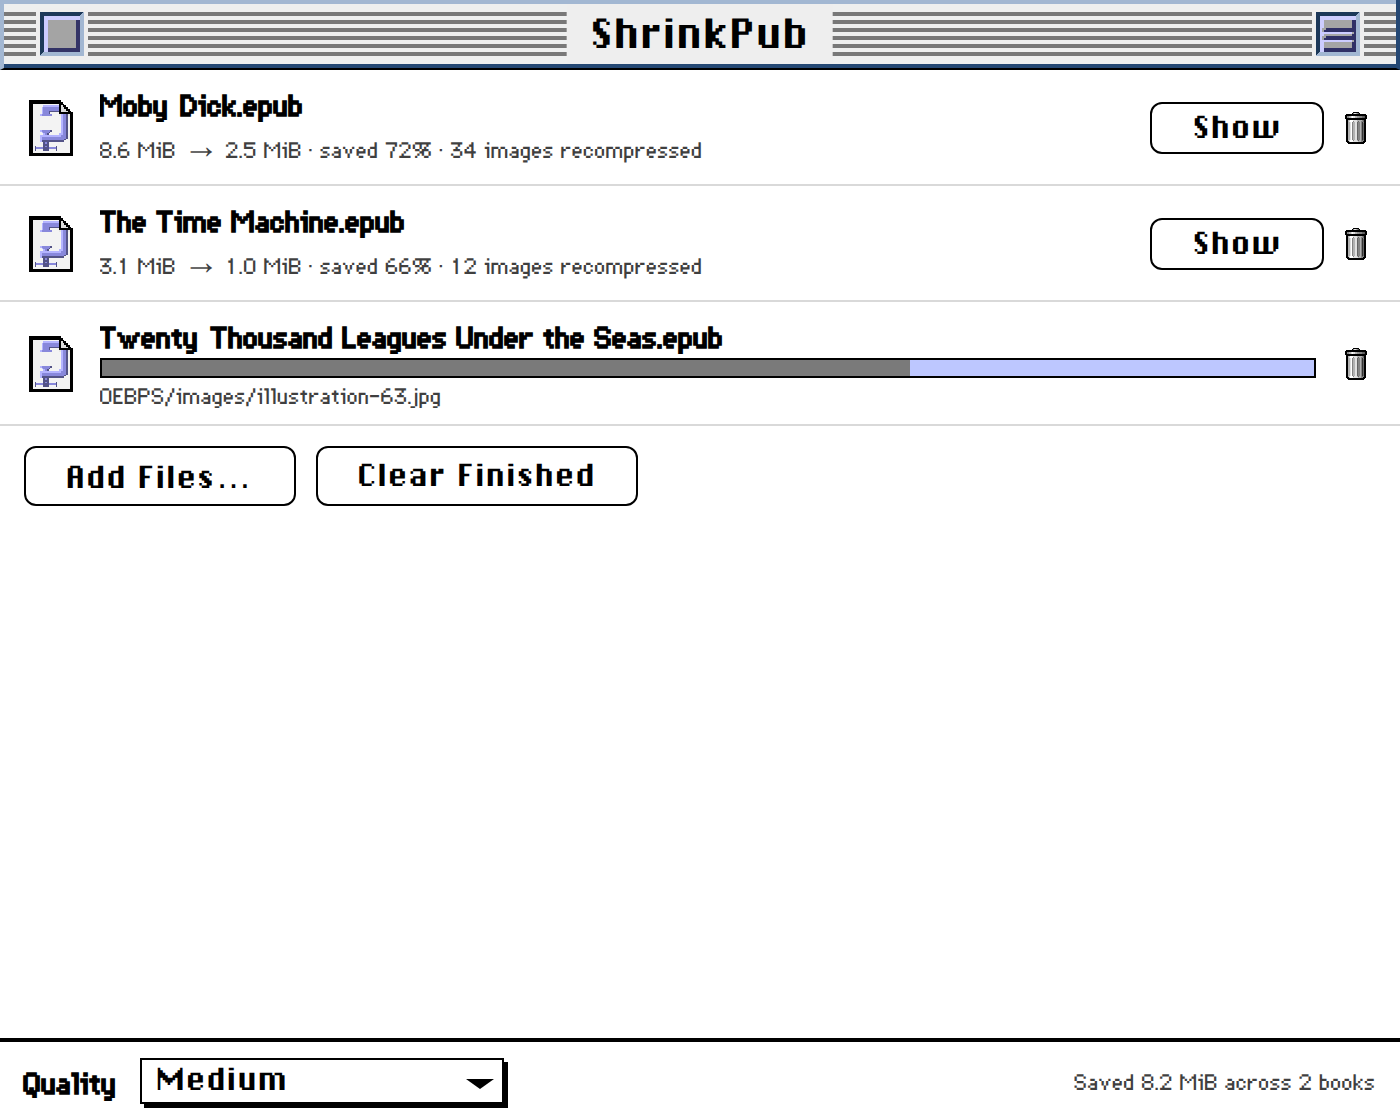
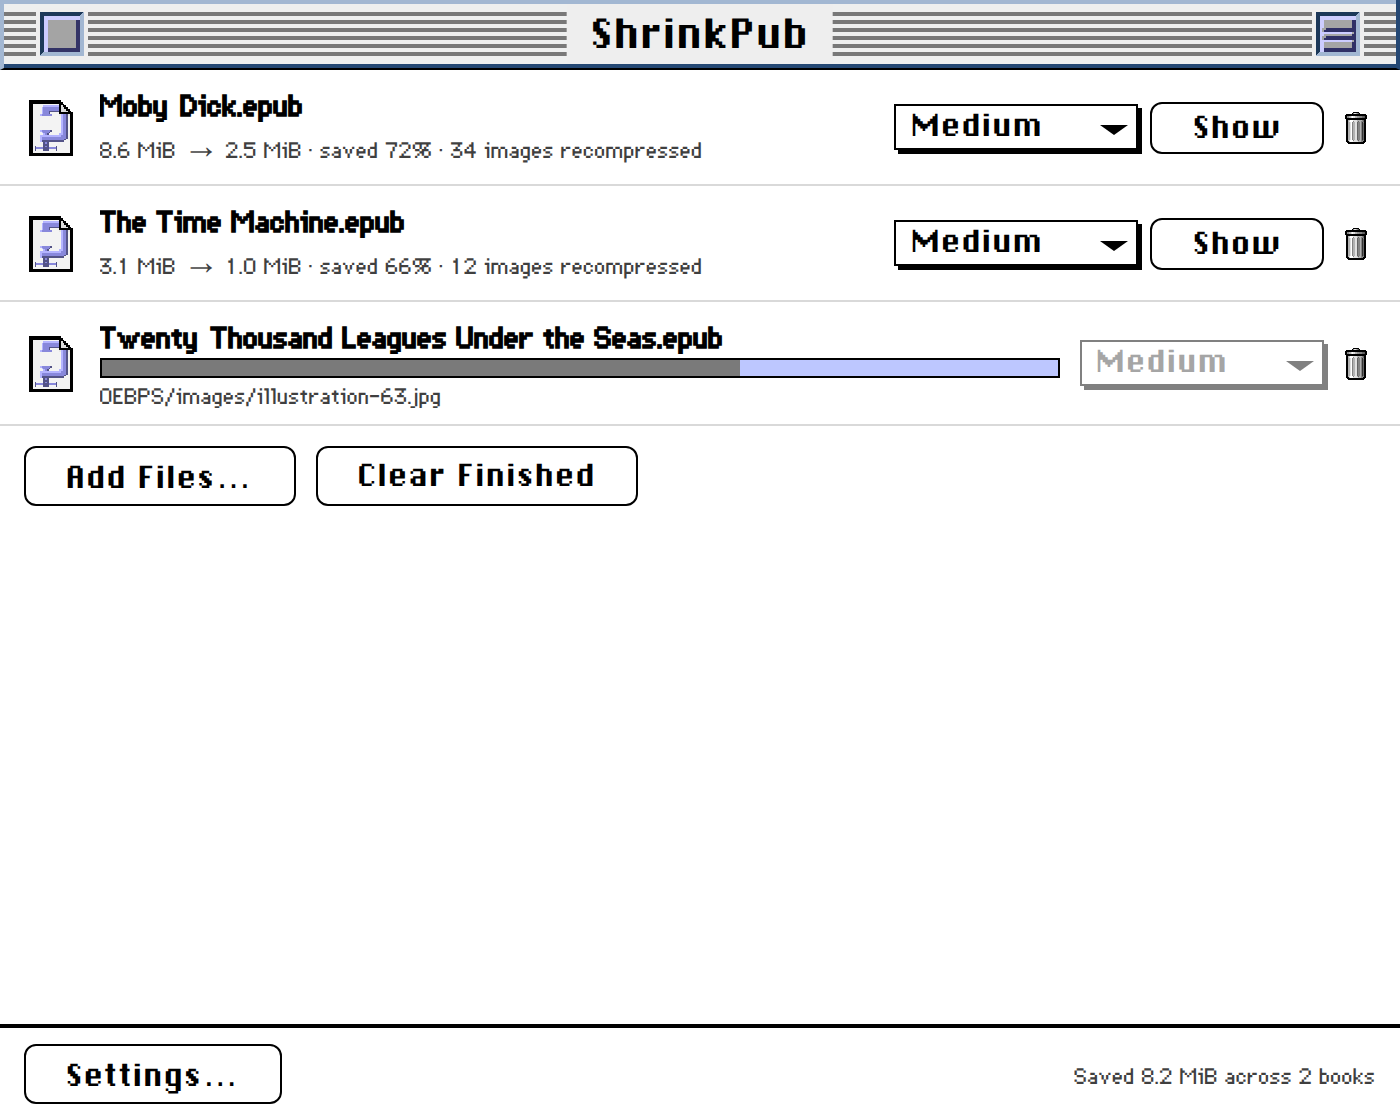
Add per-book quality selectors and a Settings panel for the default
Each file row now carries its own quality dropdown, seeded from the
default tier and disabled while that book is shrinking; changing it on a
finished row shrinks the book again at the new quality (the previous
output stays — nothing is ever deleted). The footer's global dropdown is
replaced by a Settings… button opening a system7-ui ModalDialog where the
default quality is set (persisted as shrinkpub.quality, unchanged key).

Claude-Session: https://claude.ai/code/session_01SaXkcH5paNMuNbDRHGC7LL

diff --git a/src/routes/+page.svelte b/src/routes/+page.svelte
@@ -7,6 +7,7 @@
     ArchiveFileIcon,
     Button,
     Dropdown,
+    ModalDialog,
     Notification,
     ProgressBar,
     TitleBar,
@@ -35,7 +36,8 @@
   const windowManager = new WindowManager();
 
   let jobs = $state<ShrinkJob[]>([]);
-  let quality = $state<QualityTier>('medium');
+  let defaultQuality = $state<QualityTier>('medium');
+  let settingsOpen = $state(false);
   let windowFocused = $state(true);
   let isWindowShaded = $state(false);
   let isDropActive = $state(false);
@@ -86,14 +88,14 @@
     try {
       const stored = localStorage.getItem(QUALITY_STORAGE_KEY);
       if (stored && QUALITY_OPTIONS.some((option) => option.value === stored)) {
-        quality = stored as QualityTier;
+        defaultQuality = stored as QualityTier;
       }
     } catch {
       // localStorage unavailable: keep the default.
     }
   }
 
-  function persistQuality(value: QualityTier) {
+  function persistDefaultQuality(value: string) {
     try {
       localStorage.setItem(QUALITY_STORAGE_KEY, value);
     } catch {
@@ -141,6 +143,8 @@
         path: info.path,
         name: info.name,
         sizeBytes: info.size_bytes,
+        quality: defaultQuality,
+        shrinkable: !info.is_dir && info.is_epub,
         status: 'working',
         progress: null,
         outcome: null,
@@ -166,7 +170,7 @@
     const job = jobs.find((candidate) => candidate.id === jobId);
     if (!job) return;
     try {
-      const outcome = await TauriService.shrinkEpubFile(job.id, job.path, quality);
+      const outcome = await TauriService.shrinkEpubFile(job.id, job.path, job.quality);
       job.outcome = outcome;
       job.status = 'done';
     } catch (error) {
@@ -176,6 +180,18 @@
     } finally {
       job.progress = null;
     }
+  }
+
+  /** A finished row's quality was changed: shrink that book again at the new
+   *  tier. The previous output stays on disk (nothing is ever deleted); the
+   *  row shows the newest result. */
+  function reshrink(job: ShrinkJob) {
+    if (!job.shrinkable || job.status === 'working') return;
+    job.status = 'working';
+    job.outcome = null;
+    job.error = null;
+    job.progress = null;
+    void runJob(job.id);
   }
 
   function removeJob(jobId: string) {
@@ -220,9 +236,6 @@
     void windowManager.startDragging();
   }
 
-  function handleQualityChange(value: string) {
-    persistQuality(value as QualityTier);
-  }
 </script>
 
 <div
@@ -274,6 +287,17 @@
                 {/if}
               </span>
               <span class="row-actions">
+                {#if job.shrinkable}
+                  <span class="row-quality">
+                    <Dropdown
+                      options={QUALITY_OPTIONS}
+                      bind:value={job.quality}
+                      disabled={job.status === 'working'}
+                      title="Quality for this book — changing it shrinks it again"
+                      onchange={() => reshrink(job)}
+                    />
+                  </span>
+                {/if}
                 {#if job.status === 'done'}
                   <Button onclick={() => revealOutput(job)}>Show</Button>
                 {/if}
@@ -294,14 +318,35 @@
     </main>
 
     <footer class="settings-bar">
-      <label class="quality-label" for="quality">Quality</label>
-      <span class="quality-select">
-        <Dropdown id="quality" options={QUALITY_OPTIONS} bind:value={quality} onchange={handleQualityChange} />
-      </span>
+      <Button onclick={() => (settingsOpen = true)}>Settings…</Button>
       {#if doneCount > 0 && totalSaved > 0}
         <span class="summary">Saved {formatBytes(totalSaved)} across {doneCount} {doneCount === 1 ? 'book' : 'books'}</span>
       {/if}
     </footer>
+  {/if}
+
+  {#if settingsOpen}
+    <ModalDialog width="380px" onclose={() => (settingsOpen = false)}>
+      <div class="settings-panel">
+        <h2 class="settings-title">Settings</h2>
+        <div class="s7-form-group">
+          <label for="default-quality">Default quality</label>
+          <Dropdown
+            id="default-quality"
+            options={QUALITY_OPTIONS}
+            bind:value={defaultQuality}
+            onchange={persistDefaultQuality}
+          />
+        </div>
+        <p class="settings-hint">
+          Newly added books start shrinking at this quality. Every book also has its own
+          selector in the list — changing it shrinks that book again at the new quality.
+        </p>
+        <div class="s7-actions">
+          <Button variant="primary" onclick={() => (settingsOpen = false)}>Done</Button>
+        </div>
+      </div>
+    </ModalDialog>
   {/if}
 
   <Notification notifications={$notifications} ondismiss={(id) => notifications.remove(id)} />
@@ -432,12 +477,23 @@
     background: var(--system7-color-paper, #fff);
   }
 
-  .quality-label {
-    font-weight: bold;
+  /* The library dropdown's 180px min-width is too wide for a list row. */
+  .row-quality :global(.sys7-dropdown) {
+    min-width: 120px;
   }
 
-  .quality-select {
-    min-width: 160px;
+  .settings-title {
+    margin: 0 0 12px;
+  }
+
+  .settings-hint {
+    margin: 12px 0 0;
+    font-size: 18px;
+    opacity: 0.75;
+  }
+
+  .settings-panel :global(.s7-actions) {
+    margin-top: 16px;
   }
 
   .summary {

diff --git a/src/lib/types.ts b/src/lib/types.ts
@@ -48,6 +48,10 @@ export interface ShrinkJob {
   path: string;
   name: string;
   sizeBytes: number;
+  /** This book's own quality tier (seeded from the default setting). */
+  quality: QualityTier;
+  /** False for rejected drops (folders, non-EPUBs) — no quality dropdown. */
+  shrinkable: boolean;
   status: 'working' | 'done' | 'error';
   progress: ShrinkProgress | null;
   outcome: ShrinkOutcome | null;

diff --git a/AGENTS.md b/AGENTS.md
@@ -7,8 +7,10 @@ the architecture shifts).
 ## Product Direction
 
 ShrinkPub makes EPUB files smaller. Drop `.epub` files onto the window (or pick
-them with the file dialog), choose a quality tier, get a `Book (shrunk).epub`
-sibling next to each original. The tool is deliberately boring and safe:
+them with the file dialog) and each gets a `Book (shrunk).epub` sibling next to
+the original. Books start at the default quality tier (set in the Settings
+panel); every row has its own quality selector, and changing it shrinks that
+book again at the new tier. The tool is deliberately boring and safe:
 
 - The original file is never modified or deleted.
 - An existing file is never overwritten (collision-suffixed output names).
@@ -92,7 +94,8 @@ Frontend structure: all UI in `src/routes/+page.svelte` (Svelte 5 runes);
 `src/lib/windowManager.ts` (custom title-bar window controls);
 `src/lib/updateChecker.ts` + `components/UpdateNotice.svelte` (update notice);
 `src/lib/util/` (notifications re-export, byte/percent formatting).
-localStorage keys are namespaced `shrinkpub.*` (currently `shrinkpub.quality`).
+localStorage keys are namespaced `shrinkpub.*` (currently `shrinkpub.quality` —
+the default tier applied to newly added books).
 
 ## system7-ui Integration
 
